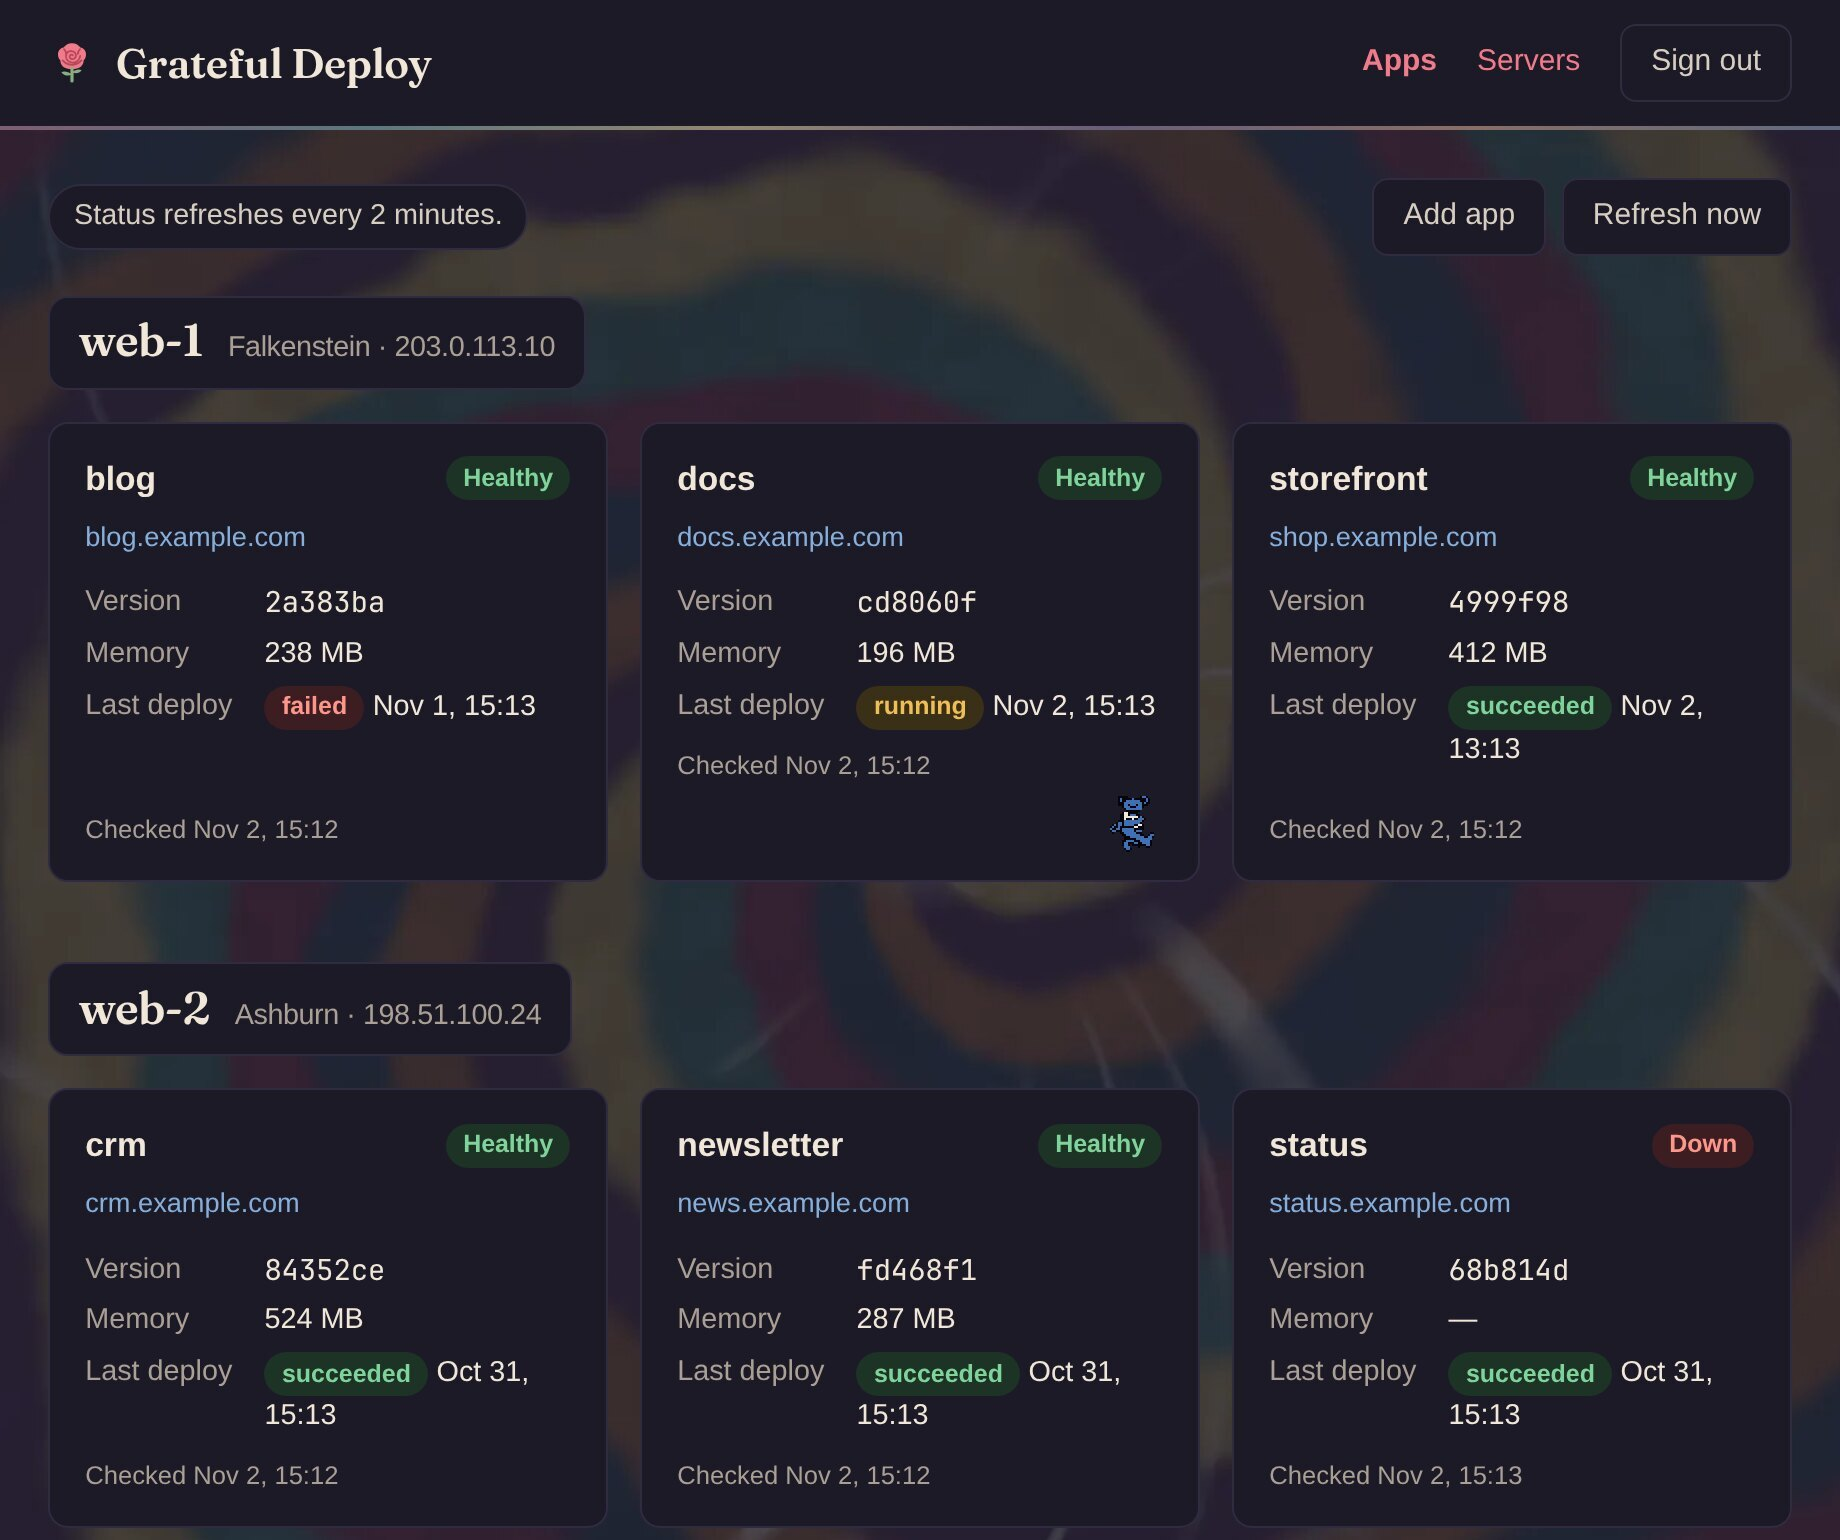
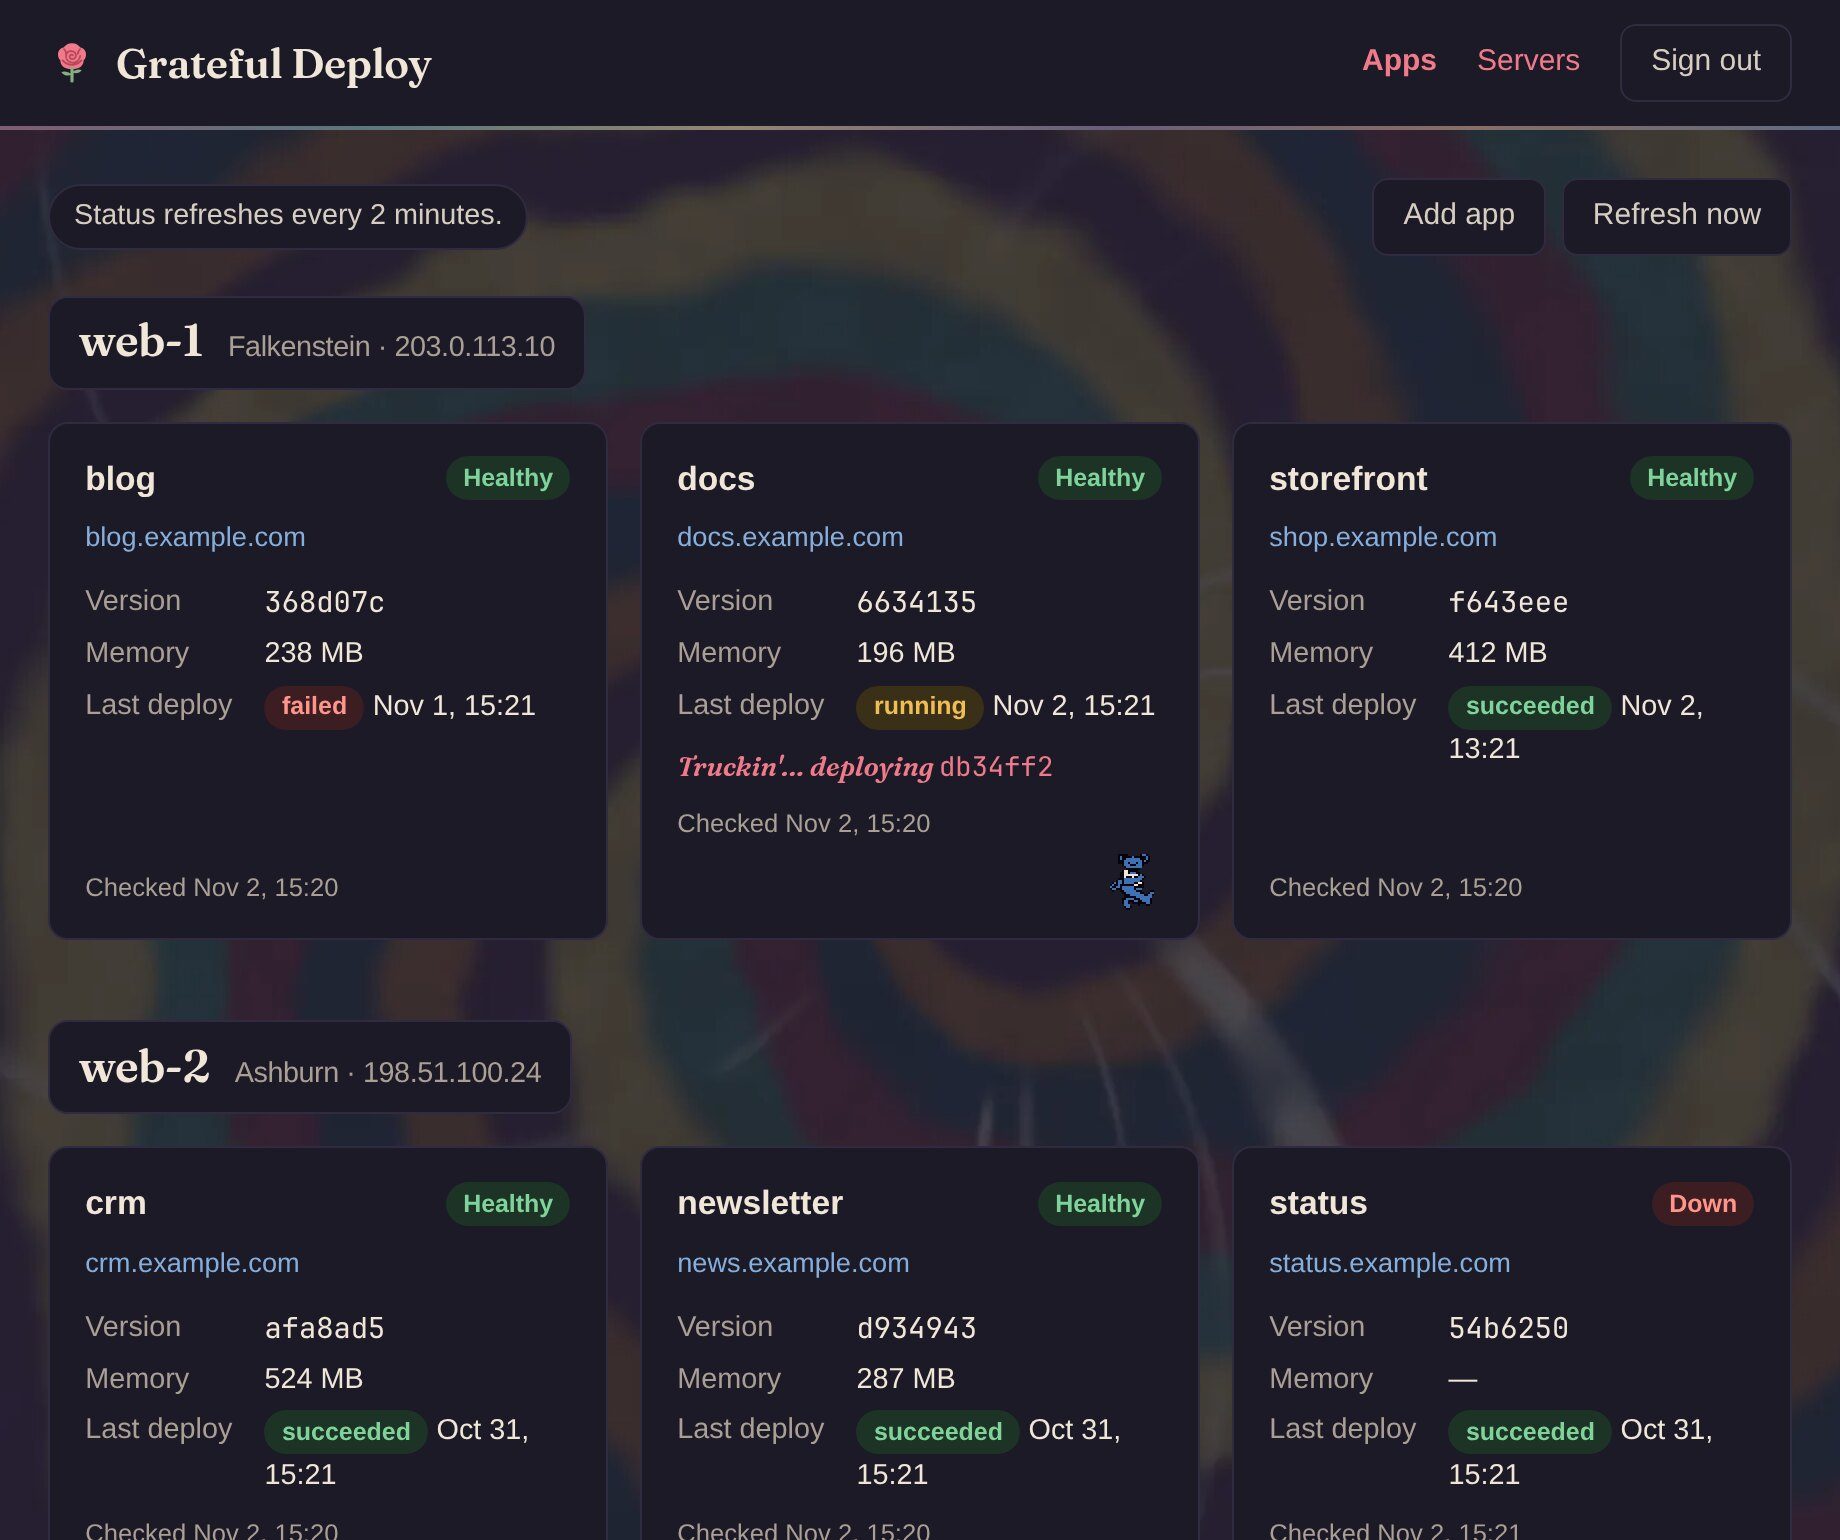
Song-title nods: Truckin', Help on the Way, He's Gone, Fare thee well
Secondary text only; buttons and statuses keep their plain names. Truckin'… sits beside the bear while a deploy runs, Help on the Way under Roll back, He's Gone on a Down badge's tooltip, Fare thee well after signing out, and Lost Sailor and Brokedown Palace head the 404 and 500 pages. README screenshots retaken.

diff --git a/public/500.html b/public/500.html
@@ -101,6 +101,16 @@
         width: min(100%, 30em);
       }
 
+      main article h1 {
+        color: #a8283c;
+        font: italic 600 clamp(1.4em, 4vw, 2em)/1.2 Georgia, serif;
+        margin: 0 0 0.5em;
+      }
+
+      @media (prefers-color-scheme: dark) {
+        main article h1 { color: #f07a8a; }
+      }
+
       main article p {
         font-size: 75%;
       }
@@ -126,6 +136,7 @@
         <svg height="172" viewBox="0 0 480 172" width="480" xmlns="http://www.w3.org/2000/svg"><path d="m101.23 93.8427c-8.1103 0-15.4098 3.7849-19.7354 8.3813h-36.2269v-99.21891h103.8143v37.03791h-68.3984v24.8722c5.1366-2.7035 15.1396-5.9477 24.6014-5.9477 35.146 0 56.233 22.7094 56.233 55.4215 0 34.605-23.791 57.315-60.558 57.315-37.8492 0-61.64-22.169-63.8028-55.963h42.9857c1.0814 10.814 9.1919 19.195 21.6281 19.195 11.355 0 19.465-8.381 19.465-20.547 0-11.625-7.299-20.5463-20.006-20.5463zm138.833 77.8613c-40.822 0-64.884-35.146-64.884-85.7015 0-50.5554 24.062-85.700907 64.884-85.700907 40.823 0 64.884 35.145507 64.884 85.700907 0 50.5555-24.061 85.7015-64.884 85.7015zm0-133.2831c-17.572 0-22.709 21.8984-22.709 47.5816 0 25.6835 5.137 47.5815 22.709 47.5815 17.303 0 22.71-21.898 22.71-47.5815 0-25.6832-5.407-47.5816-22.71-47.5816zm140.456 133.2831c-40.823 0-64.884-35.146-64.884-85.7015 0-50.5554 24.061-85.700907 64.884-85.700907 40.822 0 64.884 35.145507 64.884 85.700907 0 50.5555-24.062 85.7015-64.884 85.7015zm0-133.2831c-17.573 0-22.71 21.8984-22.71 47.5816 0 25.6835 5.137 47.5815 22.71 47.5815 17.302 0 22.709-21.898 22.709-47.5815 0-25.6832-5.407-47.5816-22.709-47.5816z" id="error-id"/><path d="m23.1377 68.9967v34.0033h-8.9162v-34.0033zm4.3157 34.0033v-24.921h8.6947v2.1598c1.3845-1.5506 3.8212-2.7136 6.701-2.7136 5.538 0 8.8054 3.5997 8.8054 9.1377v16.3371h-8.6393v-14.2327c0-2.049-1.0522-3.5443-3.2674-3.5443-1.7168 0-3.1567.9969-3.5997 2.7136v15.0634zm29.9913-8.5839v-9.5807h-3.655v-6.7564h3.655v-6.8671h8.5839v6.8671h5.2058v6.7564h-5.2058v8.307c0 1.9383.9415 2.769 2.6583 2.769.9414 0 1.9937-.2216 2.769-.5538v7.3654c-.9969.443-2.8798.775-4.8181.775-5.8703 0-9.1931-2.769-9.1931-9.0819zm32.3666-.1108h8.0301c-.8861 5.7597-5.2057 9.2487-11.6852 9.2487-7.6424 0-12.682-5.2613-12.682-13.0145 0-7.6978 5.3165-13.0143 12.5159-13.0143 7.6424 0 11.9621 5.095 11.9621 12.5159v2.1598h-16.1156c.2769 2.9905 1.8275 4.5965 4.3196 4.5965 1.7722 0 3.1567-.7753 3.6551-2.4921zm-3.8212-10.0237c-2.0491 0-3.4336 1.2737-3.9874 3.5997h7.5317c-.1107-2.0491-1.3845-3.5997-3.5443-3.5997zm31.4299-6.3134v8.3624c-1.052-.5538-2.215-.7753-3.599-.7753-2.382 0-3.988 1.0522-4.431 2.8244v14.6203h-8.694v-24.921h8.694v2.2152c1.219-1.6614 3.157-2.769 5.649-2.769 1.108 0 1.994.2215 2.381.443zm2.949 25.0318v-24.921h8.694v2.1598c1.385-1.5506 3.821-2.7136 6.701-2.7136 5.538 0 8.806 3.5997 8.806 9.1377v16.3371h-8.64v-14.2327c0-2.049-1.052-3.5443-3.267-3.5443-1.717 0-3.157.9969-3.6 2.7136v15.0634zm50.371 0h-8.363v-1.274c-.83.831-3.323 1.717-5.981 1.717-4.929 0-9.082-2.769-9.082-8.0301 0-4.818 4.153-7.9193 9.581-7.9193 2.049 0 4.485.6646 5.482 1.3845v-1.606c0-1.606-.941-2.9905-3.046-2.9905-1.606 0-2.547.7199-2.935 1.8275h-8.196c.72-4.8181 4.984-8.6393 11.408-8.6393 7.089 0 11.132 3.7659 11.132 10.2453zm-8.363-6.9779v-1.4399c-.554-1.0522-2.049-1.7167-3.655-1.7167-1.717 0-3.433.7199-3.433 2.3813 0 1.7168 1.716 2.4367 3.433 2.4367 1.606 0 3.101-.6645 3.655-1.6614zm20.742-29.0191v35.997h-8.694v-35.997zm13.036 25.9178h9.248c.72 2.326 2.714 3.489 5.483 3.489 2.713 0 4.596-1.163 4.596-3.2674 0-1.6061-1.052-2.326-3.212-2.8244l-6.534-1.3845c-4.985-1.1076-8.751-3.7105-8.751-9.47 0-6.6456 5.538-11.0206 13.07-11.0206 8.307 0 13.014 4.5411 13.956 10.4114h-8.695c-.72-1.8829-2.27-3.3228-5.205-3.3228-2.548 0-4.265 1.1076-4.265 2.9905 0 1.4953 1.052 2.326 2.825 2.7137l6.645 1.5506c5.815 1.3845 9.027 4.5412 9.027 9.8023 0 6.9778-5.87 10.9654-13.291 10.9654-8.141 0-13.679-3.9322-14.897-10.6332zm46.509 1.3845h8.031c-.887 5.7597-5.206 9.2487-11.686 9.2487-7.642 0-12.682-5.2613-12.682-13.0145 0-7.6978 5.317-13.0143 12.516-13.0143 7.643 0 11.962 5.095 11.962 12.5159v2.1598h-16.115c.277 2.9905 1.827 4.5965 4.319 4.5965 1.773 0 3.157-.7753 3.655-2.4921zm-3.821-10.0237c-2.049 0-3.433 1.2737-3.987 3.5997h7.532c-.111-2.0491-1.385-3.5997-3.545-3.5997zm31.431-6.3134v8.3624c-1.053-.5538-2.216-.7753-3.6-.7753-2.381 0-3.988 1.0522-4.431 2.8244v14.6203h-8.694v-24.921h8.694v2.2152c1.219-1.6614 3.157-2.769 5.649-2.769 1.108 0 1.994.2215 2.382.443zm18.288 25.0318h-7.809l-9.47-24.921h8.861l4.763 14.288 4.652-14.288h8.528zm25.614-8.6947h8.03c-.886 5.7597-5.206 9.2487-11.685 9.2487-7.642 0-12.682-5.2613-12.682-13.0145 0-7.6978 5.316-13.0143 12.516-13.0143 7.642 0 11.962 5.095 11.962 12.5159v2.1598h-16.116c.277 2.9905 1.828 4.5965 4.32 4.5965 1.772 0 3.157-.7753 3.655-2.4921zm-3.821-10.0237c-2.049 0-3.434 1.2737-3.988 3.5997h7.532c-.111-2.0491-1.384-3.5997-3.544-3.5997zm31.43-6.3134v8.3624c-1.052-.5538-2.215-.7753-3.6-.7753-2.381 0-3.987 1.0522-4.43 2.8244v14.6203h-8.695v-24.921h8.695v2.2152c1.218-1.6614 3.157-2.769 5.649-2.769 1.107 0 1.993.2215 2.381.443zm13.703-8.9715h24.312v7.6424h-15.562v5.3165h14.232v7.4763h-14.232v5.8703h15.562v7.6978h-24.312zm44.667 8.9715v8.3624c-1.052-.5538-2.215-.7753-3.6-.7753-2.381 0-3.987 1.0522-4.43 2.8244v14.6203h-8.695v-24.921h8.695v2.2152c1.218-1.6614 3.156-2.769 5.648-2.769 1.108 0 1.994.2215 2.382.443zm19.673 0v8.3624c-1.053-.5538-2.216-.7753-3.6-.7753-2.381 0-3.987 1.0522-4.43 2.8244v14.6203h-8.695v-24.921h8.695v2.2152c1.218-1.6614 3.156-2.769 5.648-2.769 1.108 0 1.994.2215 2.382.443zm26.769 12.5713c0 7.6978-5.15 13.0145-12.737 13.0145-7.532 0-12.738-5.3167-12.738-13.0145s5.206-13.0143 12.738-13.0143c7.587 0 12.737 5.3165 12.737 13.0143zm-8.529 0c0-3.4336-1.495-5.8703-4.208-5.8703-2.659 0-4.154 2.4367-4.154 5.8703s1.495 5.8149 4.154 5.8149c2.713 0 4.208-2.3813 4.208-5.8149zm28.082-12.5713v8.3624c-1.052-.5538-2.215-.7753-3.6-.7753-2.381 0-3.987 1.0522-4.43 2.8244v14.6203h-8.695v-24.921h8.695v2.2152c1.218-1.6614 3.157-2.769 5.649-2.769 1.107 0 1.993.2215 2.381.443z" id="error-description"/></svg>
       </header>
       <article>
+        <h1>Brokedown Palace</h1>
         <p><strong>We're sorry, but something went wrong.</strong><br> If you're the application owner check the logs for more information.</p>
       </article>
     </main>

diff --git a/public/404.html b/public/404.html
@@ -101,6 +101,16 @@
         width: min(100%, 30em);
       }
 
+      main article h1 {
+        color: #a8283c;
+        font: italic 600 clamp(1.4em, 4vw, 2em)/1.2 Georgia, serif;
+        margin: 0 0 0.5em;
+      }
+
+      @media (prefers-color-scheme: dark) {
+        main article h1 { color: #f07a8a; }
+      }
+
       main article p {
         font-size: 75%;
       }
@@ -126,6 +136,7 @@
         <svg height="172" viewBox="0 0 480 172" width="480" xmlns="http://www.w3.org/2000/svg"><path d="m124.48 3.00509-45.6889 100.02991h26.2239v-28.1168h38.119v28.1168h21.628v35.145h-21.628v30.82h-37.308v-30.82h-72.1833v-31.901l50.2851-103.27391zm115.583 168.69891c-40.822 0-64.884-35.146-64.884-85.7015 0-50.5554 24.062-85.700907 64.884-85.700907 40.823 0 64.884 35.145507 64.884 85.700907 0 50.5555-24.061 85.7015-64.884 85.7015zm0-133.2831c-17.572 0-22.709 21.8984-22.709 47.5816 0 25.6835 5.137 47.5815 22.709 47.5815 17.303 0 22.71-21.898 22.71-47.5815 0-25.6832-5.407-47.5816-22.71-47.5816zm165.328-35.41581-45.689 100.02991h26.224v-28.1168h38.119v28.1168h21.628v35.145h-21.628v30.82h-37.308v-30.82h-72.184v-31.901l50.285-103.27391z" id="error-id"/><path d="m157.758 68.9967v34.0033h-7.199l-14.233-19.8814v19.8814h-8.584v-34.0033h8.307l13.125 18.7184v-18.7184zm28.454 21.5428c0 7.6978-5.15 13.0145-12.737 13.0145-7.532 0-12.738-5.3167-12.738-13.0145s5.206-13.0143 12.738-13.0143c7.587 0 12.737 5.3165 12.737 13.0143zm-8.528 0c0-3.4336-1.496-5.8703-4.209-5.8703-2.659 0-4.154 2.4367-4.154 5.8703s1.495 5.8149 4.154 5.8149c2.713 0 4.209-2.3813 4.209-5.8149zm13.184 3.8766v-9.5807h-3.655v-6.7564h3.655v-6.8671h8.584v6.8671h5.205v6.7564h-5.205v8.307c0 1.9383.941 2.769 2.658 2.769.941 0 1.994-.2216 2.769-.5538v7.3654c-.997.443-2.88.775-4.818.775-5.87 0-9.193-2.769-9.193-9.0819zm37.027 8.5839h-8.806v-34.0033h23.924v7.6978h-15.118v6.7564h13.9v7.5316h-13.9zm41.876-12.4605c0 7.6978-5.15 13.0145-12.737 13.0145-7.532 0-12.738-5.3167-12.738-13.0145s5.206-13.0143 12.738-13.0143c7.587 0 12.737 5.3165 12.737 13.0143zm-8.529 0c0-3.4336-1.495-5.8703-4.208-5.8703-2.659 0-4.154 2.4367-4.154 5.8703s1.495 5.8149 4.154 5.8149c2.713 0 4.208-2.3813 4.208-5.8149zm35.337-12.4605v24.921h-8.695v-2.16c-1.329 1.551-3.821 2.714-6.646 2.714-5.482 0-8.75-3.5999-8.75-9.1379v-16.3371h8.64v14.288c0 2.1045.997 3.5997 3.212 3.5997 1.606 0 3.101-1.0522 3.544-2.769v-15.1187zm4.076 24.921v-24.921h8.694v2.1598c1.385-1.5506 3.822-2.7136 6.701-2.7136 5.538 0 8.806 3.5997 8.806 9.1377v16.3371h-8.639v-14.2327c0-2.049-1.053-3.5443-3.268-3.5443-1.717 0-3.156.9969-3.6 2.7136v15.0634zm44.113 0v-1.994c-1.163 1.329-3.6 2.548-6.147 2.548-7.2 0-11.132-5.8151-11.132-13.0145s3.932-13.0143 11.132-13.0143c2.547 0 4.984 1.2184 6.147 2.5475v-13.0697h8.695v35.997zm0-9.1931v-6.5902c-.665-1.3291-2.16-2.326-3.821-2.326-2.991 0-4.763 2.4368-4.763 5.6488s1.772 5.5934 4.763 5.5934c1.717 0 3.156-.9415 3.821-2.326z" id="error-description"/></svg>
       </header>
       <article>
+        <h1>Lost Sailor</h1>
         <p><strong>The page you were looking for doesn't exist.</strong> You may have mistyped the address or the page may have moved. If you're the application owner check the logs for more information.</p>
       </article>
     </main>

diff --git a/app/assets/stylesheets/application.css b/app/assets/stylesheets/application.css
@@ -288,6 +288,14 @@ details.panel[open] summary { margin-bottom: 0.75rem; }
 /* Room below the card's text for the bear, so it never covers a fact. */
 .app-card:has(> .bear--corner) { padding-bottom: 48px; }
 
+/* Song-title nods: secondary text only; buttons and statuses keep their plain names. */
+.nod, .truckin { font-family: var(--display); font-style: italic; color: var(--accent); }
+.nod { margin: -0.6rem 0 0.75rem; font-size: 0.9rem; }
+.truckin { margin: 0; font-size: 0.85rem; }
+.truckin .mono { font-style: normal; }
+.app-card .truckin { padding-right: 44px; }
+.panel > .truckin { margin: 0 0 0.75rem; }
+
 /* Sign in */
 .signin { max-width: 400px; justify-self: center; margin: 3rem auto; display: grid; gap: 1.5rem; justify-items: center; text-align: center; }
 .signin__title { margin: 0; font: 600 2.25rem/1.15 var(--display); letter-spacing: -0.015em; }

diff --git a/test/helpers/apps_helper_test.rb b/test/helpers/apps_helper_test.rb
@@ -5,7 +5,7 @@ class AppsHelperTest < ActionView::TestCase
 
   test "health badge: healthy, down, or not checked yet" do
     assert_dom_equal %(<span class="health health--up">Healthy</span>), health_badge(snapshot(health_code: 200))
-    assert_dom_equal %(<span class="health health--down">Down</span>), health_badge(snapshot(health_code: 502))
+    assert_dom_equal %(<span class="health health--down" title="He's Gone">Down</span>), health_badge(snapshot(health_code: 502))
     assert_dom_equal %(<span class="health health--unknown">Not checked yet</span>), health_badge(nil)
   end
 
@@ -14,6 +14,6 @@ class AppsHelperTest < ActionView::TestCase
     assert_dom_equal %(<span class="health health--unknown">Running · not health-checked</span>), health_badge(running)
 
     stopped = snapshot(container_state: "missing", health_code: nil, error: HealthCheck::NO_DOMAIN)
-    assert_dom_equal %(<span class="health health--down">Down</span>), health_badge(stopped)
+    assert_dom_equal %(<span class="health health--down" title="He's Gone">Down</span>), health_badge(stopped)
   end
 end

diff --git a/test/helpers/application_helper_test.rb b/test/helpers/application_helper_test.rb
@@ -13,4 +13,15 @@ class ApplicationHelperTest < ActionView::TestCase
 
     assert_operator names.map { bear_palette(App.new(name: it))[:b] }.uniq.size, :>, 2
   end
+
+  test "Truckin' says what's running and which version" do
+    app = apps(:storefront)
+    sha = "3f1c9e2a" + "0" * 32
+
+    assert_dom_equal %(<p class="truckin">Truckin'… deploying <span class="mono">3f1c9e2</span></p>),
+      truckin(app.deploys.new(kind: "deploy", git_sha: sha))
+    assert_dom_equal %(<p class="truckin">Truckin'… rolling back to <span class="mono">3f1c9e2</span></p>),
+      truckin(app.deploys.new(kind: "rollback", version: sha))
+    assert_dom_equal %(<p class="truckin">Truckin'… deploying</p>), truckin(app.deploys.new(kind: "deploy"))
+  end
 end

diff --git a/app/helpers/application_helper.rb b/app/helpers/application_helper.rb
@@ -11,4 +11,15 @@ module ApplicationHelper
   def bear_palette(app)
     { b: BEAR_COLOURS[Zlib.crc32(app.name) % BEAR_COLOURS.size] }
   end
+
+  # Beside the bear while a deploy runs: "Truckin'… deploying 3f1c9e2".
+  def truckin(deploy)
+    action, version =
+      if deploy.rollback_kind? then [ "rolling back to", deploy.version ]
+      elsif deploy.start_kind? then [ "starting", deploy.version ]
+      elsif deploy.deploy_kind? then [ "deploying", deploy.git_sha ]
+      end
+    words = [ "Truckin'…", action, (tag.span(version.first(7), class: "mono") if version) ].compact
+    tag.p(safe_join(words, " "), class: "truckin")
+  end
 end

diff --git a/test/controllers/rollbacks_controller_test.rb b/test/controllers/rollbacks_controller_test.rb
@@ -38,6 +38,7 @@ class RollbacksControllerTest < ActionDispatch::IntegrationTest
   test "the app page offers a confirmed rollback button per version" do
     get app_path(apps(:storefront))
 
+    assert_select ".rollbacks .nod", "Help on the Way"
     assert_select ".rollbacks form[action=?]", app_rollbacks_path(apps(:storefront)), 2
     assert_select ".rollbacks form input[name=version][value=?]", OFFERED
     assert_select ".rollbacks button[data-turbo-confirm]", "Roll back to 7d1e0f2"

diff --git a/app/helpers/apps_helper.rb b/app/helpers/apps_helper.rb
@@ -7,7 +7,7 @@ module AppsHelper
       elsif snapshot.running_unchecked? then [ "Running · not health-checked", "unknown" ]
       else [ "Down", "down" ]
       end
-    tag.span(label, class: "health health--#{modifier}")
+    tag.span(label, class: "health health--#{modifier}", title: ("He's Gone" if modifier == "down"))
   end
 
   # "HEAD abc1234 · 2 commits ahead of running · uncommitted changes"

diff --git a/test/controllers/sessions_controller_test.rb b/test/controllers/sessions_controller_test.rb
@@ -1,0 +1,11 @@
+require "test_helper"
+
+class SessionsControllerTest < ActionDispatch::IntegrationTest
+  test "signing out says Fare thee well" do
+    sign_in_as users(:owner)
+    delete session_path
+
+    assert_redirected_to new_session_path
+    assert_equal "Fare thee well.", flash[:notice]
+  end
+end

diff --git a/app/controllers/sessions_controller.rb b/app/controllers/sessions_controller.rb
@@ -32,7 +32,7 @@ class SessionsController < ApplicationController
 
   def destroy
     sign_out
-    redirect_to new_session_path, notice: "Signed out."
+    redirect_to new_session_path, notice: "Fare thee well."
   end
 
   private
